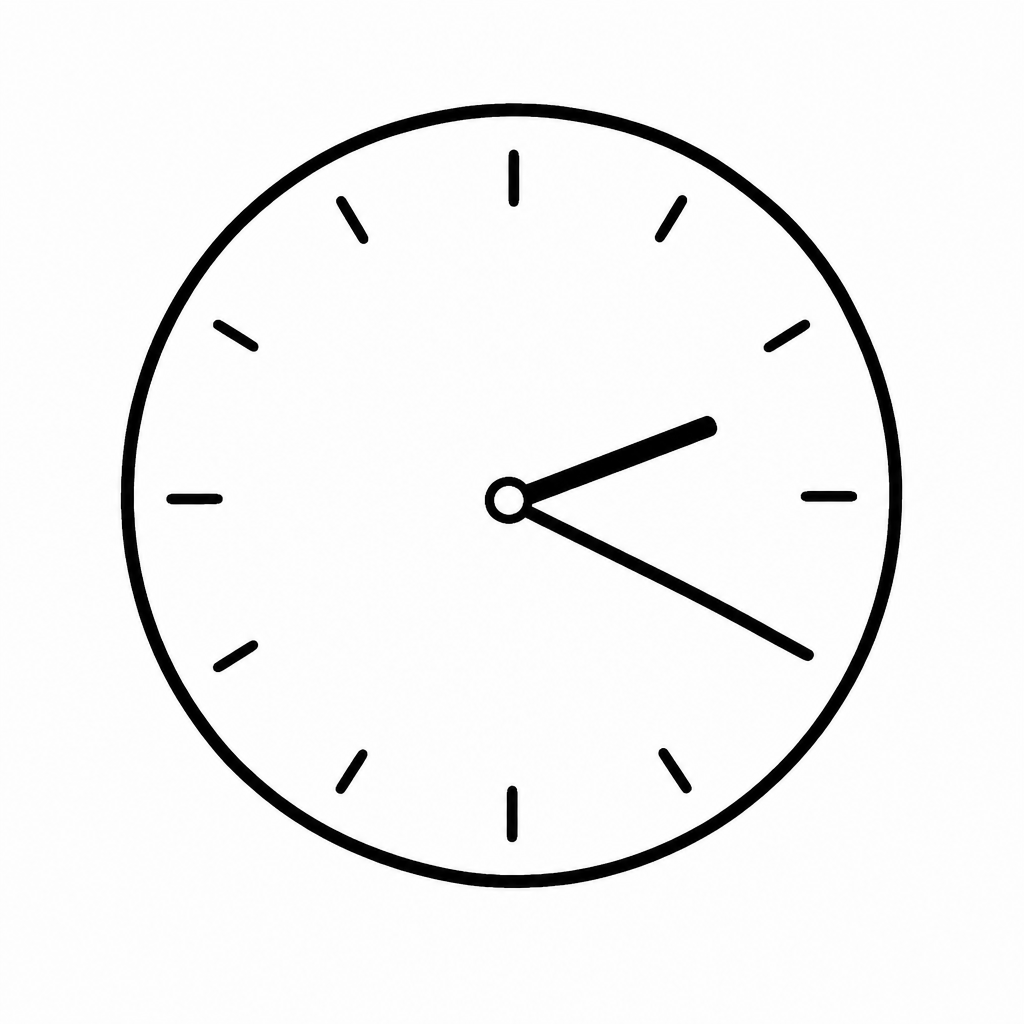
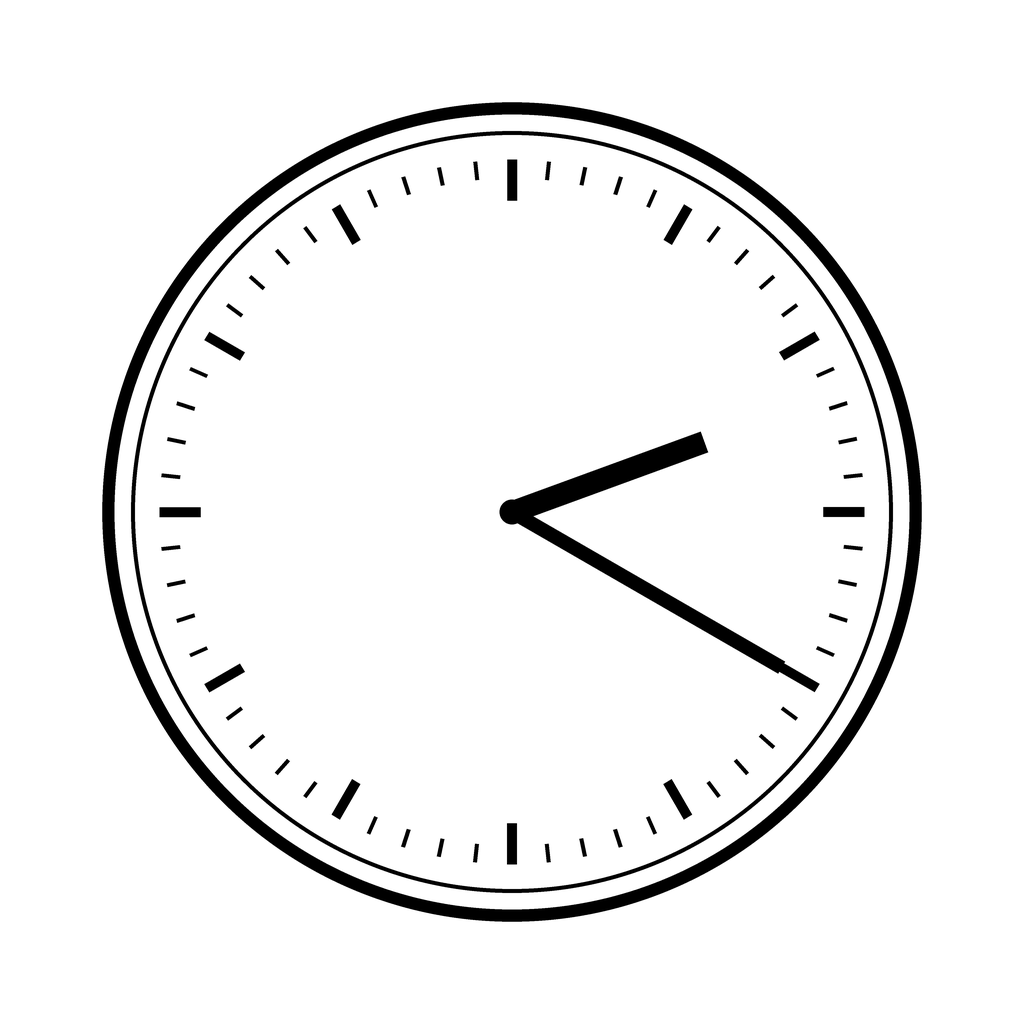
Las 56 viñetas de 課題理解 N5, con los tres casos que no salían
En el examen real las opciones de 課題理解 a N5 y N4 son cuatro dibujos, no
texto, y elegir mirando es parte de la dificultad.

Tres cosas fallaron, y las tres importan porque aquí el dibujo ES la respuesta:

· COLOR. 「青いシャツ 二まい」 y 「白いシャツ 二まい」 salían idénticas: en línea
  negra el color no existe, así que dos opciones iguales y pregunta sin
  respuesta. Esas van en color, con su propio bloque de estilo. Y en tema oscuro
  no se invierten, que volvería el azul naranja.

· RELOJES. Pedimos 二時三十分 y dibujó las 3:30. Un reloj es geometría: se dibuja
  con PIL y no se le pide a nadie. Es el caso en que la precisión manda sobre el
  estilo.

· EL SUSTANTIVO ELIDIDO. 「青いのと 赤いの」 son かばん, pero eso sólo aparece en
  las otras opciones y el modelo dibujó lápices. Ahora ve las cuatro opciones en
  cada petición, marcando cuál toca.

Y un fallo mío que costó dos tandas: genera() convertía todo a escala de grises
—lo puse para el libro, que es tinta— así que el color salía bien y yo lo
destruía después.

Claude-Session: https://claude.ai/code/session_01LFVZRHazvSKogv1ZKS2gj5

Changed region(s): [[0.0938, 0.0938, 0.9062, 0.9062]]

diff --git a/src/app/globals.css b/src/app/globals.css
@@ -684,7 +684,8 @@ em.g.n3 { border-color: color-mix(in srgb, var(--n3) 60%, transparent); }
   display: block; width: 100%; height: auto; border-radius: var(--radio-sm);
   background: #fff;
 }
-:root[data-tema="oscuro"] .vineta-opcion { filter: invert(1); background: #000; }
-@media (prefers-color-scheme: dark) {
-  :root:not([data-tema="claro"]) .vineta-opcion { filter: invert(1); background: #000; }
-}
+/* En oscuro NO se invierten, al revés que las escenas de 発話表現: algunas
+   opciones se distinguen justamente por el color —青いかばん frente a 赤い
+   かばん— e invertir volvería el azul naranja y el rojo cian, o sea que
+   destruiría la respuesta. Se quedan sobre su tarjeta blanca, que se lee como
+   papel. */

diff --git a/scripts/34_ilustrar_opciones.py b/scripts/34_ilustrar_opciones.py
@@ -44,6 +44,106 @@ THIS DRAWING IS THE ANSWER TO AN EXAM QUESTION. Precision beats everything:
 """.strip()
 
 
+# --------------------------------------------------- los dos casos que fallan
+#
+# 1. COLOR. En línea negra no hay forma de distinguir 「青いシャツ」 de
+#    「白いシャツ」: salían las dos como una camisa de contorno, o sea dos
+#    opciones idénticas y una pregunta sin respuesta. Esas van en color. En el
+#    papel del examen no se puede, pero esto es una pantalla y el color no
+#    cuesta nada — y encima 青い/赤い/白い es justo el vocabulario que se está
+#    preguntando.
+#
+# 2. RELOJES. El modelo pone las manecillas donde le parece: pedimos 二時三十分
+#    y dibujó las 3:30, con la aguja de la hora en el 3 en vez de a medio camino
+#    entre el 2 y el 3. Un reloj es geometría, así que se dibuja aquí y no se
+#    le pide a nadie. Es el caso en que la precisión manda sobre el estilo.
+
+ESTILO_COLOR = """
+STYLE — plain line drawing in FLAT COLOUR, for a Japanese listening paper.
+A clean black outline, and inside it ONE FLAT SOLID COLOUR per object — the
+exact colour the option names, bright and unmistakable. Blue is a clear medium
+blue, red is a clear red, white is plain white with only the outline. No
+shading, no gradients, no texture, no grey, no pattern: one flat fill and
+nothing else. White background.
+
+THE COLOUR IS THE ANSWER. Two options in this question differ ONLY in colour,
+so if the fill is grey, washed out, or the wrong hue the question has no
+solution. Make the colour obvious at a glance.
+
+HARD RULES:
+1. NO TEXT anywhere: no letters, no numbers, no words, no labels, no logos.
+2. Draw exactly what is listed and nothing else. If a number is given, draw
+   exactly that many, clearly separated and easy to count.
+3. Centred on white with even space around. Nobody in the picture unless the
+   option names a person.
+
+FORBIDDEN: Studio Ghibli; Pixar or any 3D look; manga or anime; cute
+picture-book style; photorealism; shading; drop shadows.
+""".strip()
+
+COLORES = ("青", "赤", "白", "黒", "黄", "緑", "茶", "紫",
+           "あお", "あか", "しろ", "くろ", "きいろ", "みどり",
+           "ピンク", "オレンジ")
+
+CIFRA = {"一": 1, "二": 2, "三": 3, "四": 4, "五": 5, "六": 6,
+         "七": 7, "八": 8, "九": 9, "十": 10}
+
+
+def _numero(s):
+    """Kanji a entero, para 1..59: 二十 → 20, 五十 → 50, 二十五 → 25."""
+    if not s: return None
+    if "十" in s:
+        a, _, b = s.partition("十")
+        return (CIFRA.get(a, 1) if a else 1) * 10 + (CIFRA.get(b, 0) if b else 0)
+    return CIFRA.get(s)
+
+
+def hora_de(texto):
+    """(hora, minuto) si la opción es una hora; si no, None."""
+    m = re.fullmatch(r"\s*([一二三四五六七八九十]+)時(半|([一二三四五六七八九十]+)分)?\s*", texto)
+    if not m: return None
+    h = _numero(m.group(1))
+    if h is None: return None
+    if m.group(2) == "半": return (h, 30)
+    if m.group(3):
+        mi = _numero(m.group(3))
+        return (h, mi) if mi is not None else None
+    return (h, 0)
+
+
+def pinta_reloj(h, mi, destino, lado=1024):
+    """Un reloj de pared con la hora exacta, al estilo de los demás dibujos:
+    línea negra gruesa sobre blanco y sin un solo número."""
+    from PIL import Image, ImageDraw
+    import math
+    esc = 4                                   # se dibuja en grande y se reduce
+    S = lado * esc
+    im = Image.new("L", (S, S), 255)
+    d = ImageDraw.Draw(im)
+    c, r = S / 2, S * 0.40
+    d.ellipse([c - r, c - r, c + r, c + r], outline=0, width=int(S * 0.012))
+    d.ellipse([c - r * 0.93, c - r * 0.93, c + r * 0.93, c + r * 0.93],
+              outline=0, width=int(S * 0.004))
+    for k in range(60):
+        a = math.radians(k * 6 - 90)
+        largo = r * (0.10 if k % 5 == 0 else 0.045)
+        gordo = int(S * (0.010 if k % 5 == 0 else 0.004))
+        r1 = r * 0.86
+        d.line([c + r1 * math.cos(a), c + r1 * math.sin(a),
+                c + (r1 - largo) * math.cos(a), c + (r1 - largo) * math.sin(a)],
+               fill=0, width=gordo)
+    def aguja(ang, largo, gordo):
+        a = math.radians(ang - 90)
+        d.line([c, c, c + largo * math.cos(a), c + largo * math.sin(a)],
+               fill=0, width=gordo)
+    # la aguja de la hora avanza con los minutos: a y media va a medio camino
+    aguja(((h % 12) + mi / 60) * 30, r * 0.50, int(S * 0.022))
+    aguja(mi * 6, r * 0.76, int(S * 0.014))
+    d.ellipse([c - S * 0.012, c - S * 0.012, c + S * 0.012, c + S * 0.012], fill=0)
+    im.resize((lado, lado), Image.LANCZOS).save(destino)
+    print(f"  → {destino.relative_to(RAIZ)}  (reloj {h}:{mi:02d}, dibujado a mano)")
+
+
 def items(nivel):
     fuera = []
     for f in sorted((RAIZ / "data/fuente/examen").glob("*.json")):
@@ -54,16 +154,39 @@ def items(nivel):
 
 
 def dibuja(it, i, opcion):
-    prompt = (_examen.ESTILO + "\n\n" + PRECISION + "\n\nSUBJECT — option "
+    limpia = _examen.limpia(opcion)
+    destino = SALIDA / f"{it['id']}-{i + 1}.png"
+
+    reloj = hora_de(limpia)
+    if reloj:
+        pinta_reloj(reloj[0], reloj[1], destino)
+        return
+
+    # Si la opción nombra un color, el dibujo va en color; en línea negra dos
+    # opciones que sólo se diferencian en el color salen idénticas.
+    hay_color = any(c in limpia for c in COLORES)
+    # Parchear frases sueltas del estilo monocromo no bastaba: salían grises.
+    # Con su propio bloque el color sale del color que pide la opción.
+    estilo = ESTILO_COLOR if hay_color else _examen.ESTILO
+
+    # Se le pasan LAS CUATRO opciones, no sólo la suya. El japonés elide el
+    # sustantivo —「青いのと 赤いの」 son かばん, que sólo aparece en las otras
+    # opciones— y sin verlas el modelo se lo inventa: pidió bolsos y dibujó
+    # lápices. Además así sabe de qué tiene que distinguirse.
+    todas = "\n".join(
+        f"  {k + 1}. {_examen.limpia(o)}" + ("   ← DRAW THIS ONE" if k == i else "")
+        for k, o in enumerate(it["opciones"]))
+    prompt = (estilo + "\n\n" + PRECISION + "\n\nSUBJECT — option "
               f"{i + 1} of 4 for a Japanese listening question.\n\n"
               f"THE QUESTION (context only, do not draw it):\n"
               f"{_examen.limpia(it['enunciado'])}\n\n"
+              f"THE FOUR OPTIONS, so you know what the objects are and what "
+              f"this one has to differ from:\n{todas}\n\n"
               f"WHAT TO DRAW (Japanese, from the exam bank) — exactly this and "
-              f"nothing else:\n{_examen.limpia(opcion)}\n\n"
+              f"nothing else:\n{limpia}\n\n"
               "Square composition on white. No text, no numbers, no labels.")
-    destino = SALIDA / f"{it['id']}-{i + 1}.png"
-    print(f"  {it['id']}-{i + 1}  {_examen.limpia(opcion)[:38]}")
-    _il.genera(prompt, destino, size="1024x1024")
+    print(f"  {it['id']}-{i + 1}  {limpia[:38]}" + ("   [color]" if hay_color else ""))
+    _il.genera(prompt, destino, size="1024x1024", gris=not hay_color)
 
 
 def main():

diff --git a/scripts/32_ilustrar_libro.py b/scripts/32_ilustrar_libro.py
@@ -198,7 +198,7 @@ def _peticion(url: str, cuerpo, cabeceras, intentos=4):
 
 
 def genera(prompt: str, destino: pathlib.Path, referencia: pathlib.Path | None = None,
-           size="1536x1024"):
+           size="1536x1024", gris=True):
     """Un dibujo. Con `referencia` usa /images/edits, que es como se le pasa la
     hoja de personajes para que respete las caras."""
     k = clave()
@@ -225,11 +225,16 @@ def genera(prompt: str, destino: pathlib.Path, referencia: pathlib.Path | None =
     # Son dibujos a tinta negra: guardarlos en RGB ocupa 3,4 veces más sin
     # aportar nada. A 1536x1024 y 115 mm de ancho quedan a ~340 ppp, de sobra
     # para imprenta.
-    try:
-        from PIL import Image
-        Image.open(destino).convert("L").save(destino, optimize=True)
-    except ImportError:
-        pass
+    #
+    # `gris=False` para lo que SÍ lleva color. Con esto siempre puesto, las
+    # opciones de examen que se distinguen por el color salían grises: el
+    # modelo las pintaba bien y esta línea se lo cargaba después.
+    if gris:
+        try:
+            from PIL import Image
+            Image.open(destino).convert("L").save(destino, optimize=True)
+        except ImportError:
+            pass
     u = d.get("usage") or {}
     try: nombre = destino.resolve().relative_to(RAIZ)
     except ValueError: nombre = destino

diff --git a/docs/JLPT-EXAMEN.md b/docs/JLPT-EXAMEN.md
@@ -215,3 +215,49 @@ En la app salen **antes del botón de escuchar**, como en el papel: primero se
 mira la escena, luego suena el audio. En tema oscuro se invierten, para que no
 sean un foco de luz en mitad de la pantalla.
 
+## Las cuatro viñetas de 課題理解
+
+En el examen real, a N5 y N4 las opciones de 課題理解 no son texto: son cuatro
+dibujos, y elegir mirando es parte de la dificultad —hay que retener el audio
+mientras se mira—. Con opciones de texto el ejercicio es más fácil de lo que
+debería.
+
+`python3 scripts/34_ilustrar_opciones.py` dibuja las de N5 (14 ítems, 56
+viñetas); con `--nivel N4` las de N4. Escribe además
+`src/lib/opciones-ilustradas.json`, que es lo que lee la app para saber cuándo
+pintar viñetas. Se apunta ahí y no se deduce en el navegador: probar a cargar y
+esperar el error da parpadeo, y un ítem a medio dibujar dejaría dos opciones con
+viñeta y dos con texto, que es la peor combinación.
+
+La diferencia con 発話表現: allí el dibujo pone la escena y la respuesta está en
+el audio; **aquí el dibujo ES la respuesta**. Si no se pueden contar dos huevos
+y distinguirlos de tres, la pregunta no tiene solución. Por eso el estilo se
+mantiene pero la exigencia de precisión sube.
+
+### Los tres casos que fallaron
+
+**Colores.** 「青いシャツ 二まい」 y 「白いシャツ 二まい」 salían las dos como
+una camisa de contorno: dos opciones idénticas y una pregunta sin respuesta. En
+línea negra el color no existe. Esas van **en color**, con su propio bloque de
+estilo —parchear frases sueltas del monocromo no bastaba, salían grises—. En el
+papel del examen no se puede; esto es una pantalla y el color no cuesta nada, y
+encima 青い/赤い/白い es justo el vocabulario que se pregunta.
+
+Ojo: en tema oscuro las viñetas **no se invierten**, al revés que las escenas de
+発話表現. Invertir volvería el azul naranja y el rojo cian, o sea que destruiría
+la respuesta.
+
+**Relojes.** Se pidió 二時三十分 y dibujó las 3:30, con la aguja de la hora en el
+3 en vez de a medio camino entre el 2 y el 3. Un reloj es geometría, así que se
+dibuja con PIL —`pinta_reloj()`— y no se le pide a nadie. Es el caso en que la
+precisión manda sobre el estilo.
+
+**El sustantivo elidido.** 「青いのと 赤いの」 no dice de qué: son かばん, y eso
+sólo aparece en las otras opciones. El modelo dibujó lápices. Ahora se le pasan
+**las cuatro opciones** en cada petición, marcando cuál toca: así sabe qué es el
+objeto y de qué tiene que distinguirse.
+
+Y un fallo propio que costó dos tandas: `genera()` convertía **todo** a escala
+de grises —lo puse para el libro, que es tinta— así que el color se generaba
+bien y se destruía después. Ahora lleva `gris=False` para lo que sí va en color.
+
